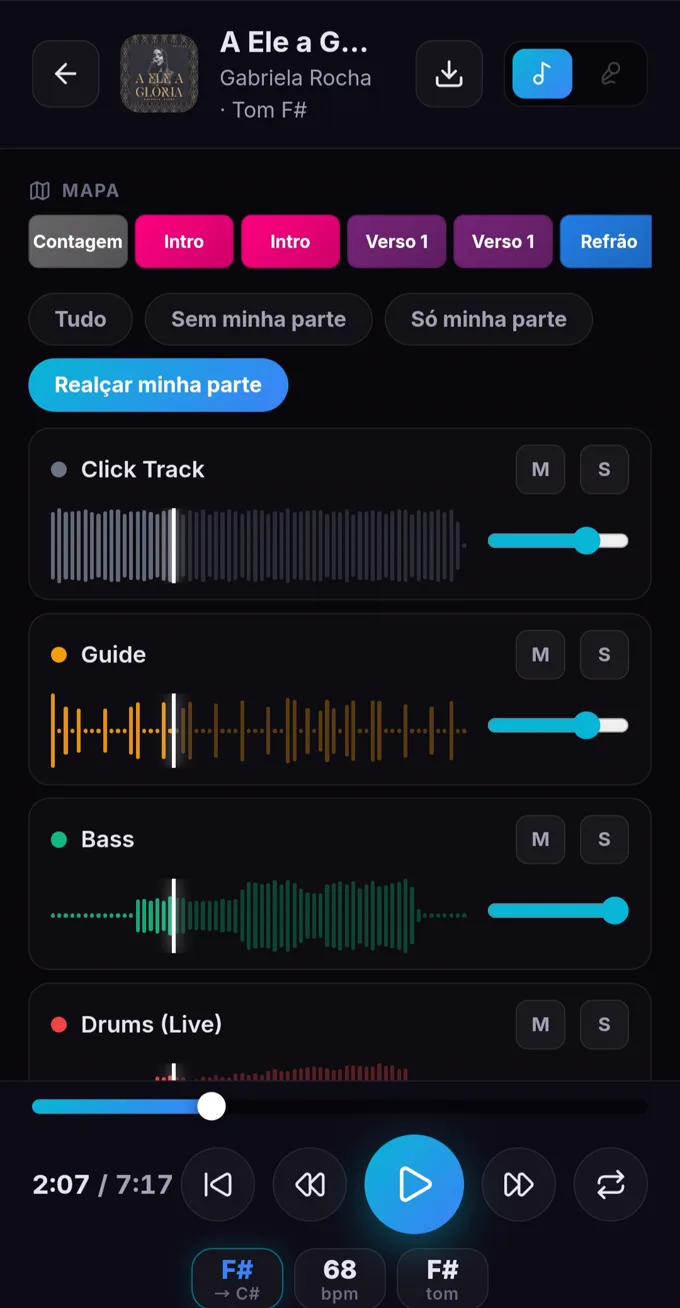
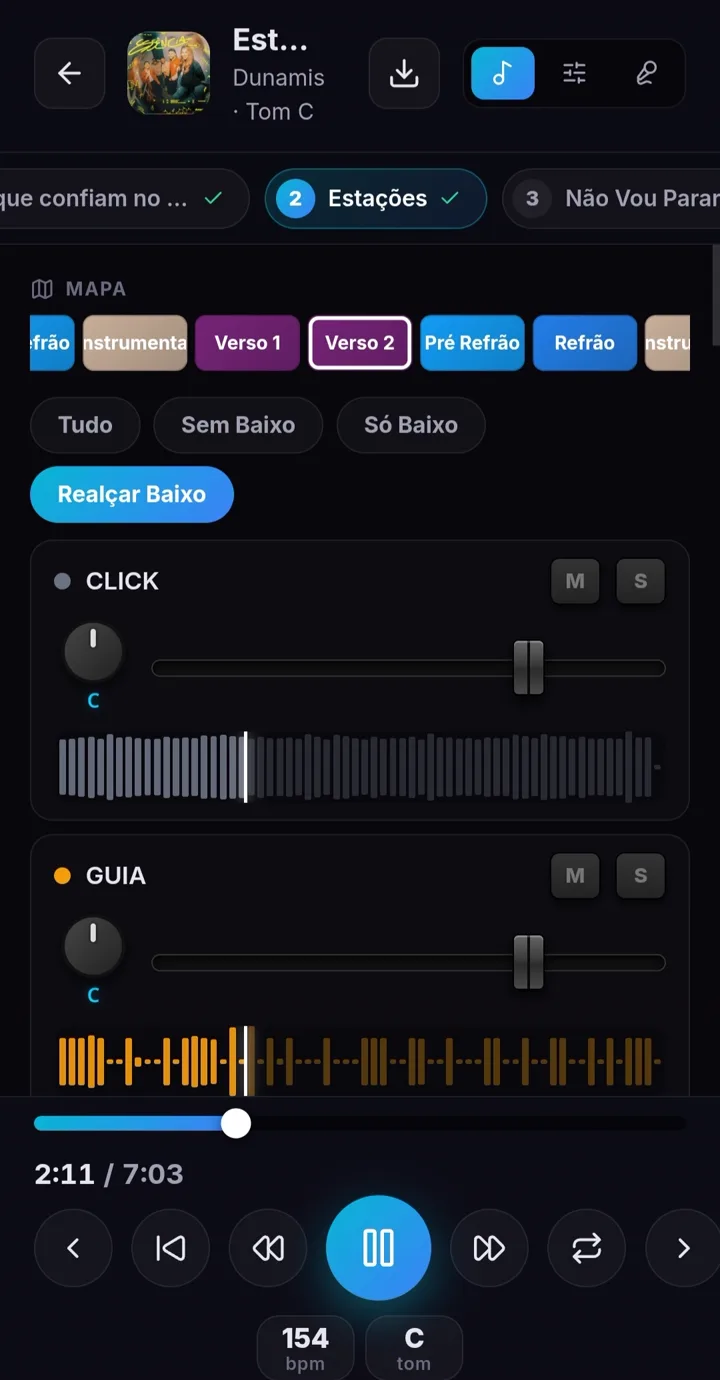
Scale: prints novos do player (abas Faixas, Mixer e Letra)
Print retrato principal agora mostra a aba Faixas com Realcar Baixo;
secao paisagem antiga (UI velha) virou fileira com Mixer e Letra.

Claude-Session: https://claude.ai/code/session_01Wk7YBuJDegxWTvTjZ2HjcL

diff --git a/scale.html b/scale.html
@@ -94,9 +94,10 @@
   @media (max-width:560px){ .stats { flex-direction:column; gap:24px; } .stat-div { width:auto; height:1px; } }
 
   /* print paisagem do player */
-  .landshot { margin-top:56px; text-align:center; }
-  .landshot img { border-radius:10px; border:1px solid var(--line2); box-shadow:0 30px 80px -25px rgba(0,0,0,.85); margin:0 auto; }
-  .landshot p { margin-top:14px; font-family:var(--mono); font-size:11.5px; color:var(--dim); letter-spacing:.03em; }
+  .phonerow { margin-top:56px; display:flex; justify-content:center; gap:52px; flex-wrap:wrap; }
+  .phonerow figure { margin:0; }
+  .phonerow .phone { width:250px; }
+  .phonerow figcaption { margin-top:14px; text-align:center; font-family:var(--mono); font-size:11.5px; color:var(--dim); letter-spacing:.03em; }
 
   /* section base */
   .sec { padding:64px 0; }
@@ -245,11 +246,17 @@
         </div>
         <p style="margin-top:10px;font-size:13px;color:var(--dim);">Demonstração aberta, sem cadastro — com a música “Teu Rio” (Cnct Music) em multitrack.</p>
       </div>
-      <div class="phone"><img src="img/scale/player.webp" alt="Player de estudo multitrack do Automate Scale — faixas separadas, mapa da música e controles de tom e BPM" loading="lazy" /></div>
+      <div class="phone"><img src="img/scale/player.webp" alt="Player de estudo multitrack do Automate Scale — faixas separadas com forma de onda, mapa da música por seções e filtros Tudo, Sem Baixo e Só Baixo" loading="lazy" /></div>
     </div>
-    <div class="landshot">
-      <img src="img/scale/player-land.webp" alt="Player do Automate Scale na horizontal — mapa completo da música com abas Mixer e Letra" loading="lazy" />
-      <p>Deitou o celular? O player vira uma mesa de ensaio — mapa inteiro da música, abas Mixer e Letra.</p>
+    <div class="phonerow">
+      <figure>
+        <div class="phone"><img src="img/scale/player-mixer.webp" alt="Aba Mixer do player do Automate Scale — mesa de som com fader, pan, mudo e solo por instrumento e medidores de volume" loading="lazy" /></div>
+        <figcaption>Aba Mixer — mesa de som de verdade, com medidores por faixa.</figcaption>
+      </figure>
+      <figure>
+        <div class="phone"><img src="img/scale/player-letra.webp" alt="Aba Letra do player do Automate Scale — letra sincronizada com o áudio, destacando a linha atual da música" loading="lazy" /></div>
+        <figcaption>Aba Letra — a linha atual acompanha a música, tipo karaokê.</figcaption>
+      </figure>
     </div>
   </div>
 </section>
